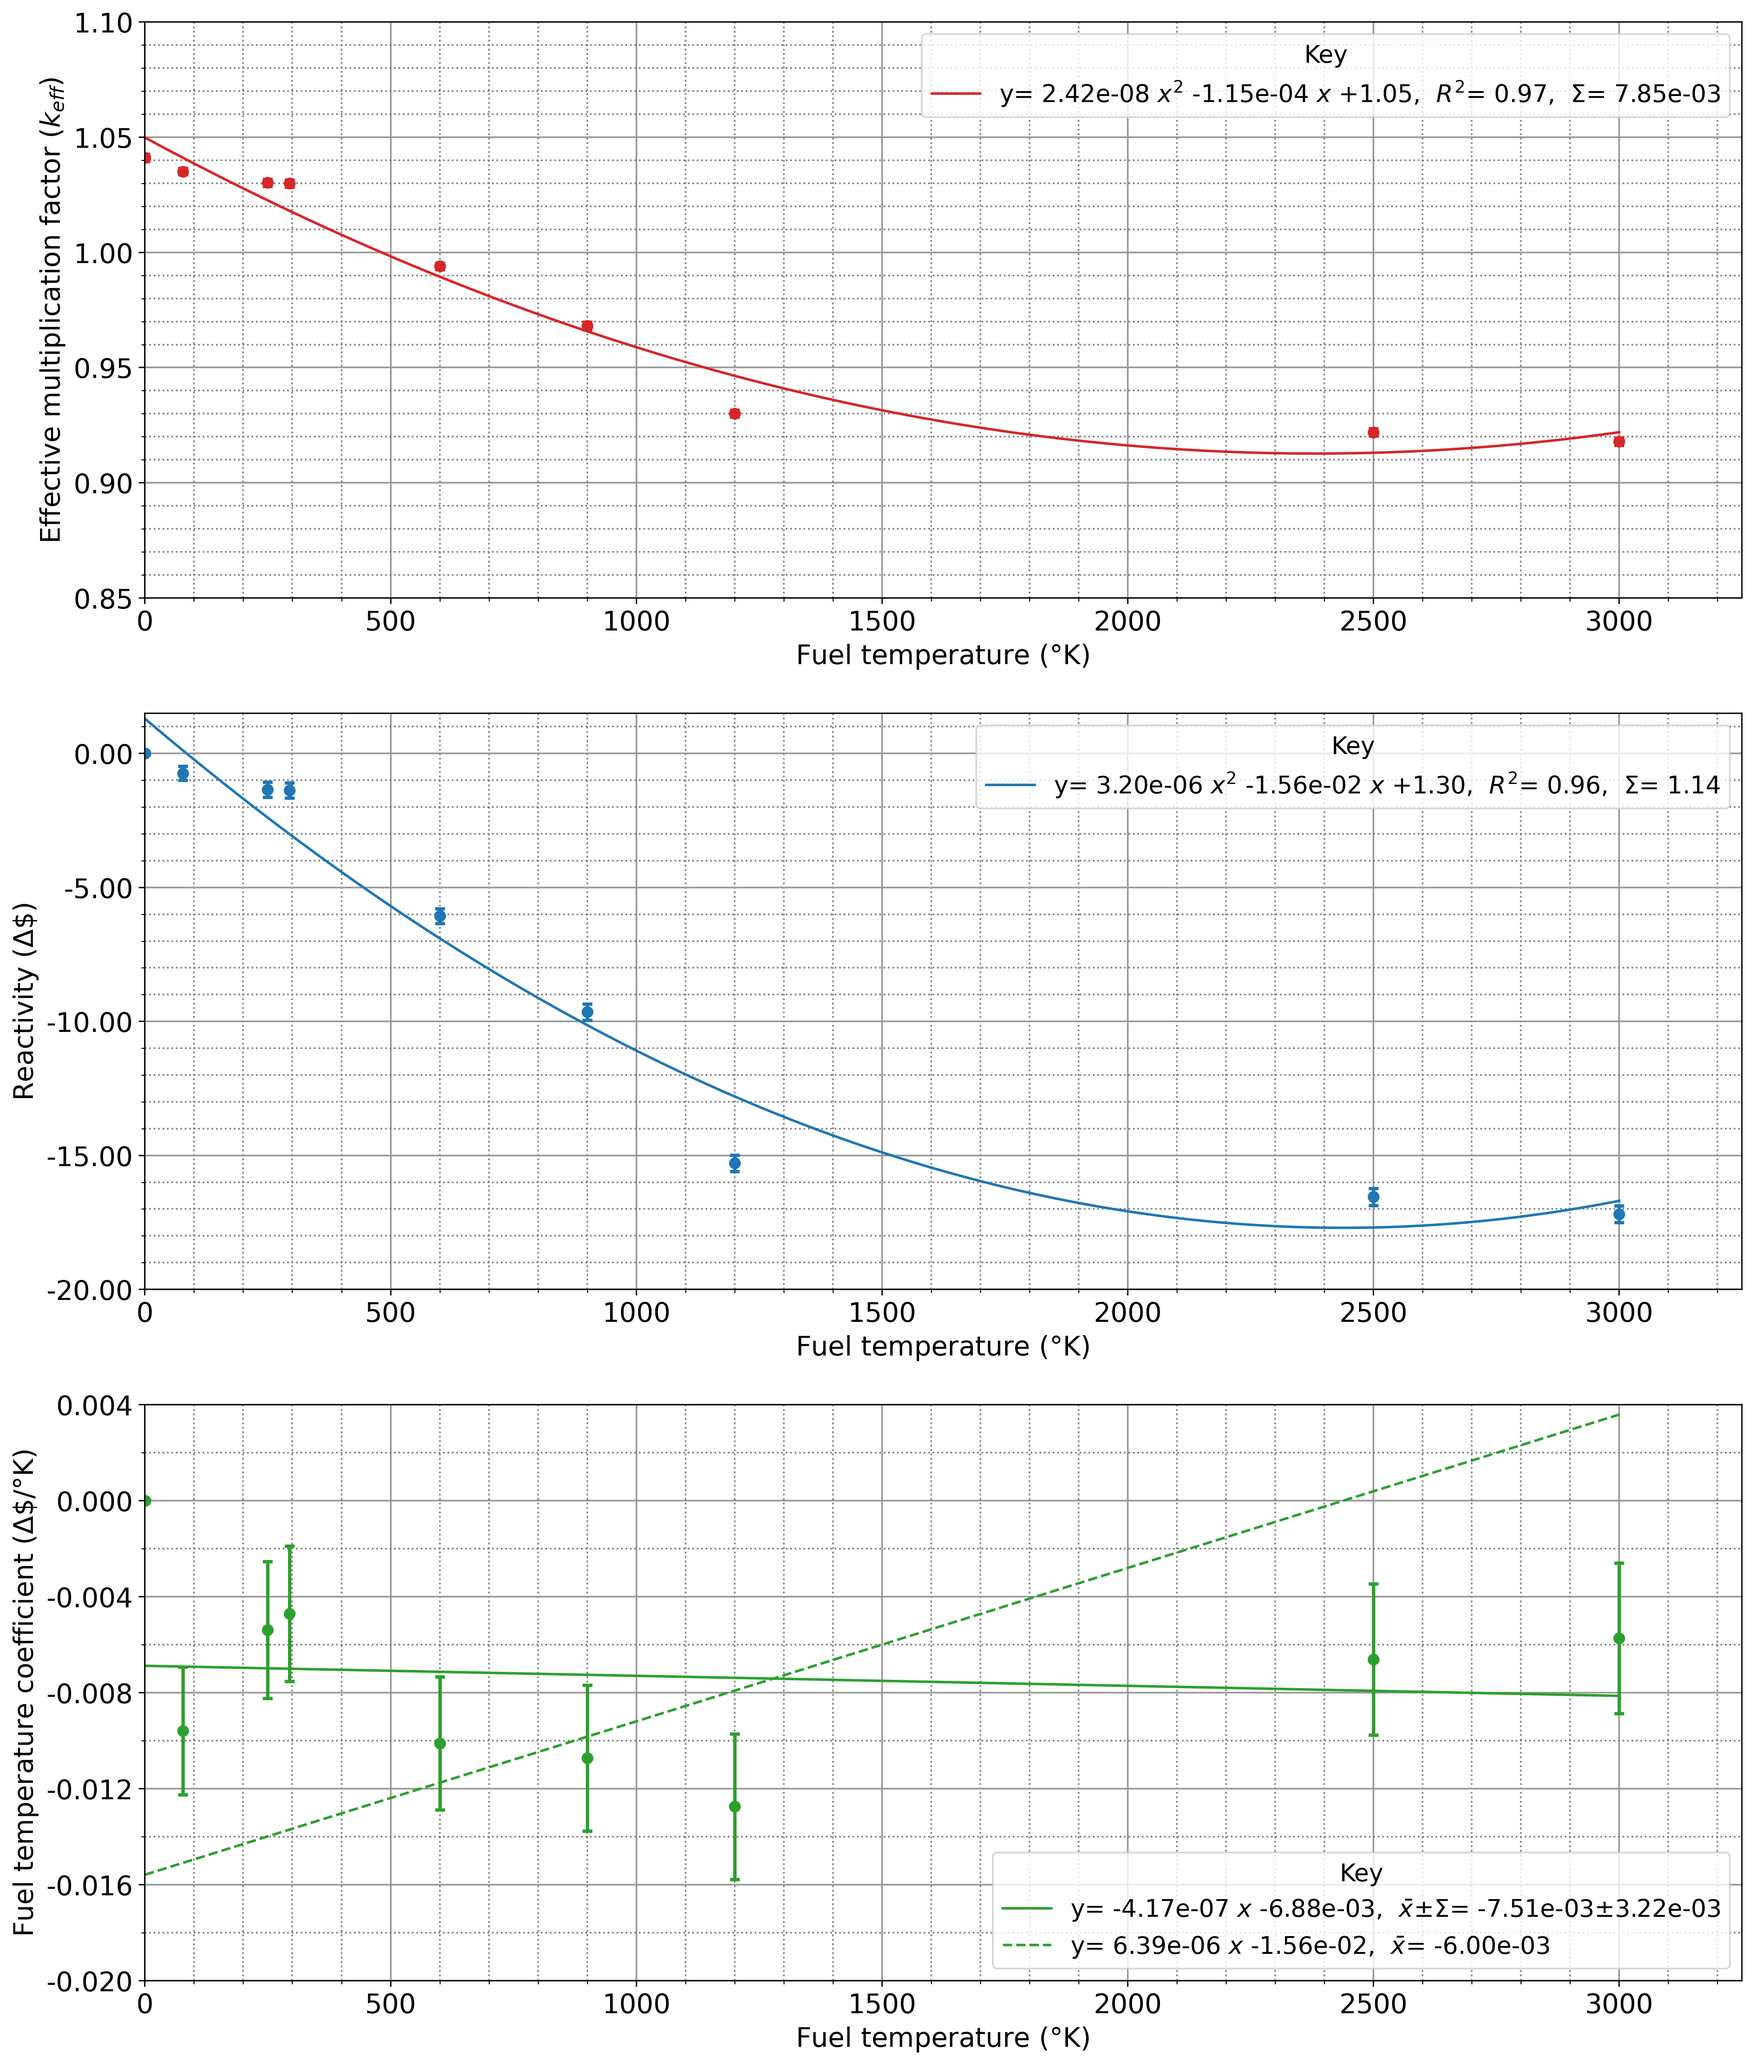
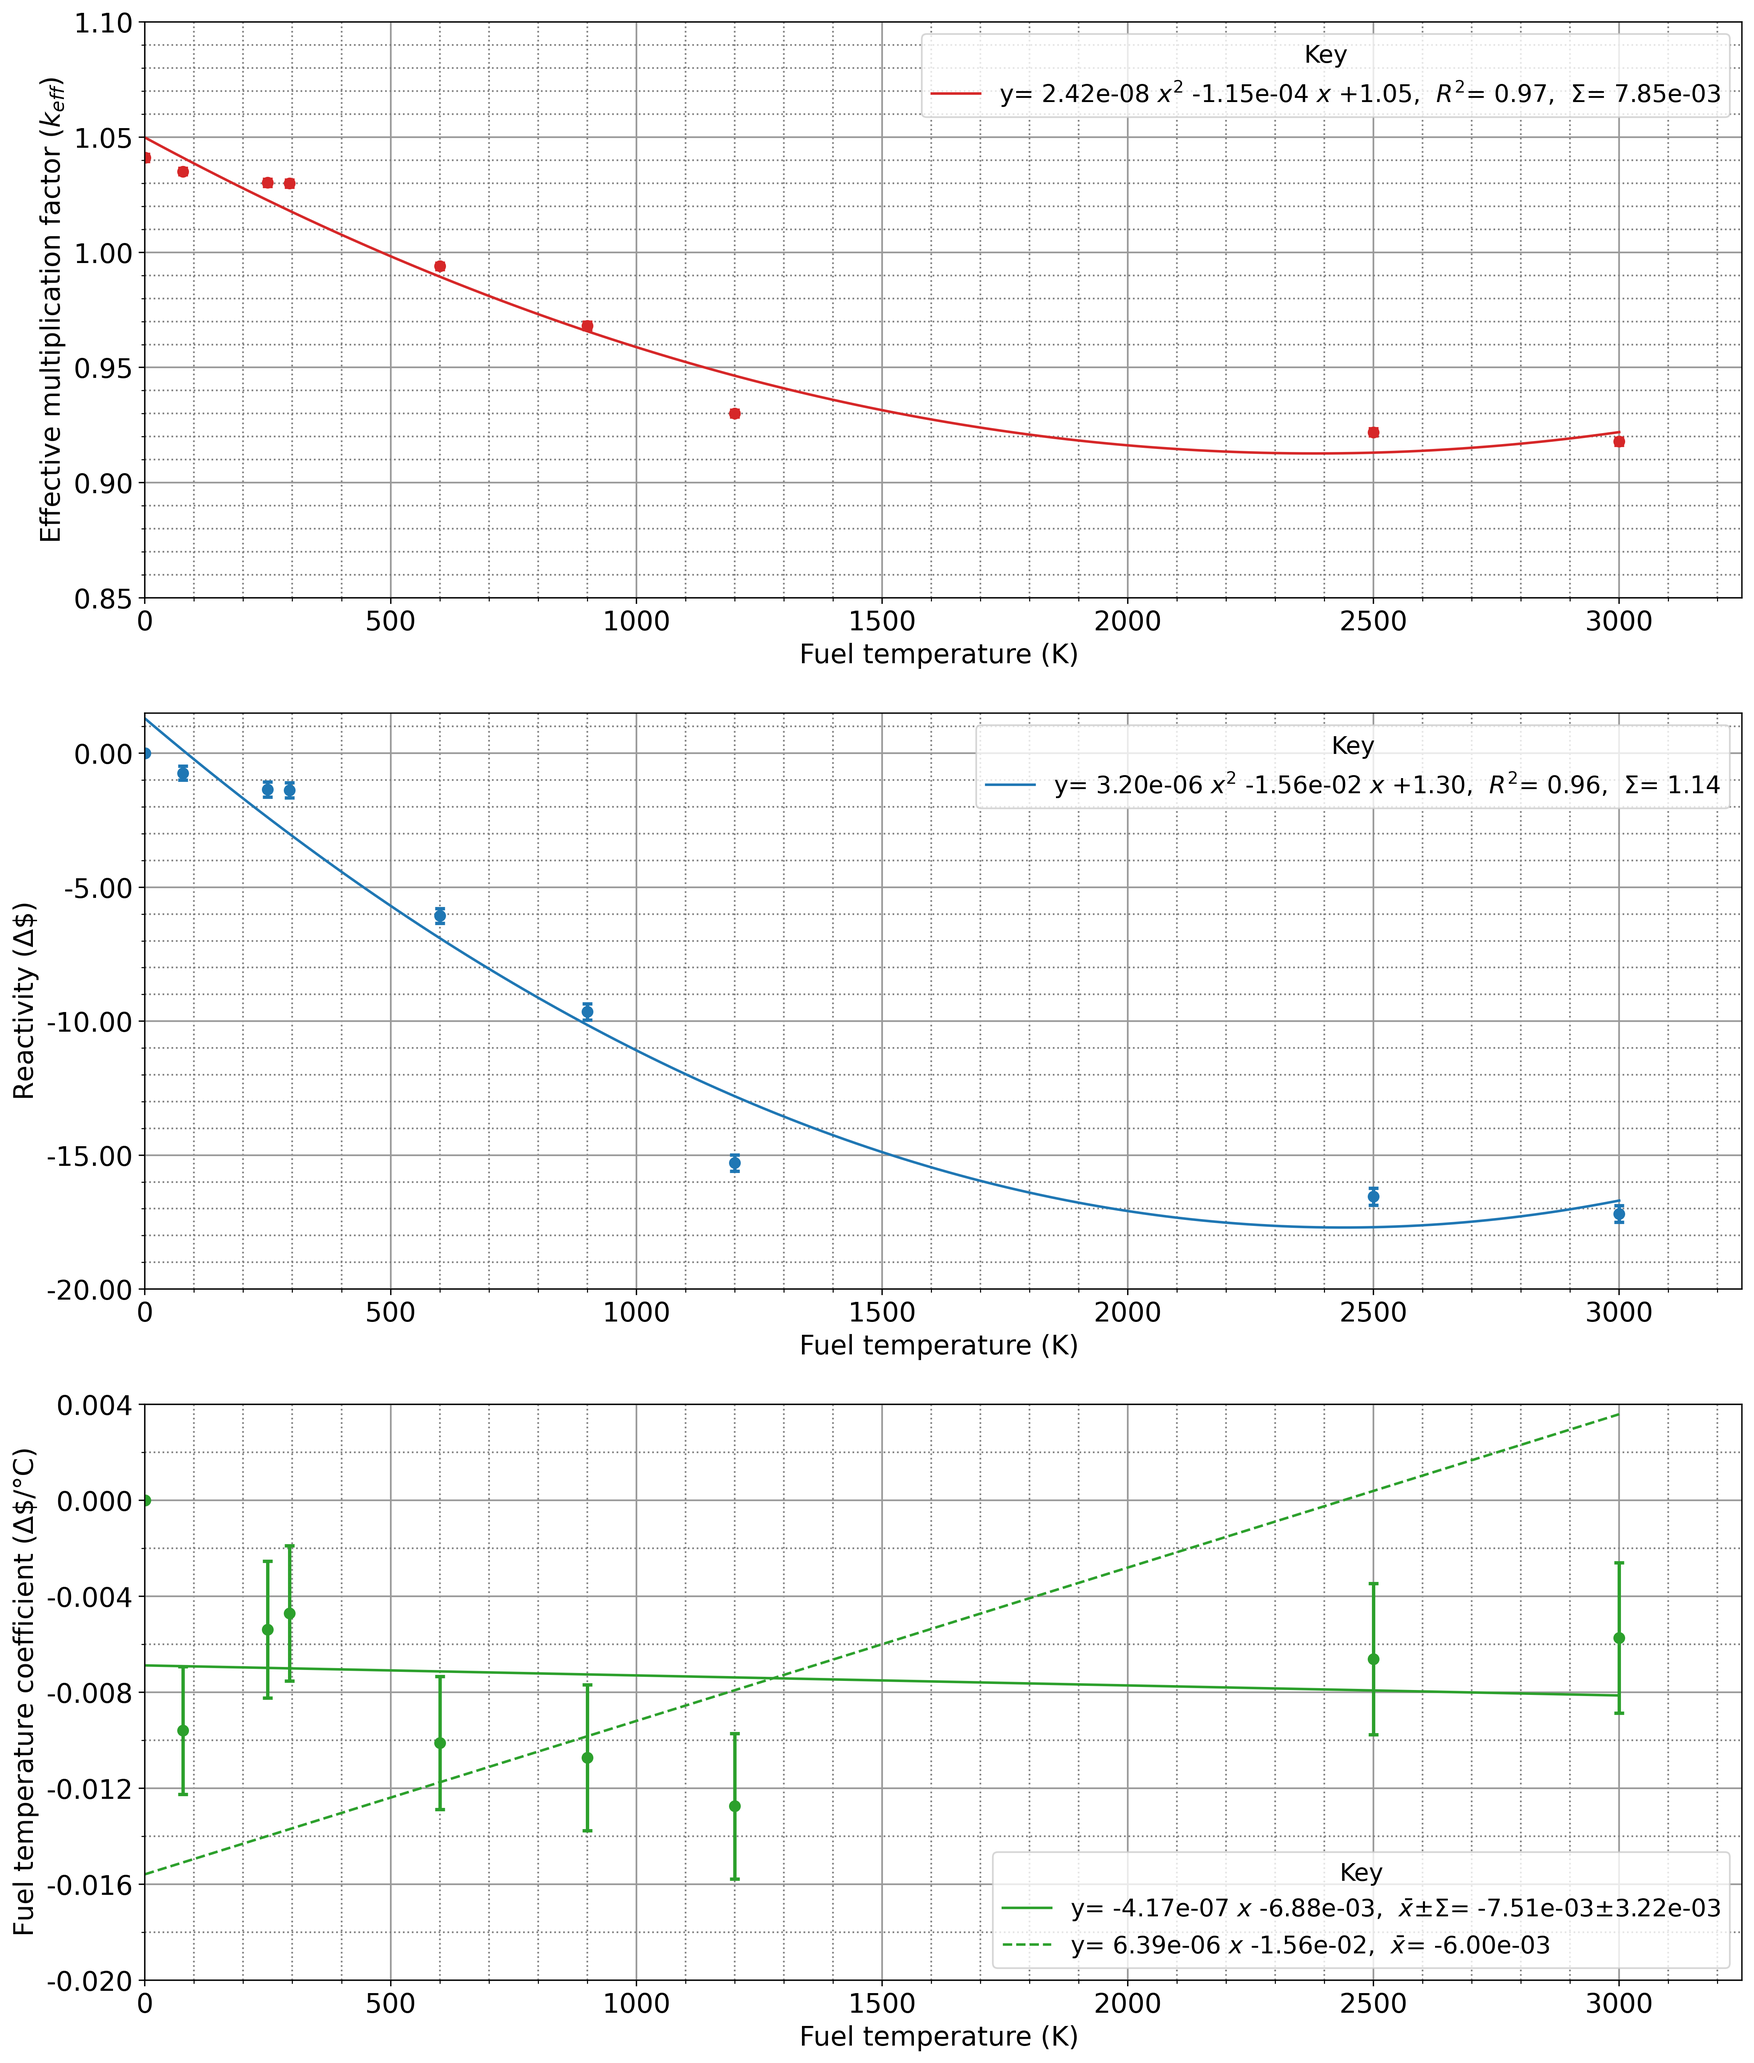
edited keff y axis

diff --git a/mcnp_funcs.py b/mcnp_funcs.py
@@ -4,7 +4,7 @@ AUXILLIARY MCNP FUNCTIONS
 Written by Patrick Park (RO, Physics '22)
 ppark@reed.edu
 First published: Dec. 30, 2020
-Last updated: Feb. 16, 2021
+Last updated: Feb. 17, 2021
 
 __________________
 Default MCNP units
@@ -52,6 +52,7 @@ MEV_PER_KELVIN = 8.617e-11
 REACT_ADD_RATE_LIMIT_DOLLARS = 0.16
 RODS = ["safe", "shim", "reg"]  # must be in lower case
 
+# From LA-UR-13-21822
 U235_TEMP_DICT = {294: '92235.80c', 600: '92235.81c', 900: '92235.82c', 1200: '92235.83c',
                   2500: '92235.84c', 0.1: '92235.85c', 250: '92235.86c', 77: '92235.67c', 3000: '92235.68c'}
 U238_TEMP_DICT = {294: '92238.80c', 600: '92238.81c', 900: '92238.82c', 1200: '92238.83c',
@@ -65,6 +66,12 @@ HZR_TEMP_DICT = {294: 'h/zr.20t', 400: 'h/zr.21t', 500: 'h/zr.22t', 600: 'h/zr.2
                  800: 'h/zr.25t', 1000: 'h/zr.26t', 1200: 'h/zr.27t'}
 ZRH_TEMP_DICT = {294: 'zr/h.30t', 400: 'zr/h.31t', 500: 'zr/h.32t', 600: 'zr/h.33t', 700: 'zr/h.34t',
                  800: 'zr/h.35t', 1000: 'zr/h.36t', 1200: 'zr/h.37t'}
+WATER_TEMP_DICT = {294: 'lwtr.20t', 350: 'lwtr.21t', 400: 'lwtr.22t', 450: 'lwtr.23t', 500: 'lwtr.24t',
+                   550: 'lwtr.25t', 600: 'lwtr.26t', 650: 'lwtr.27t', 800: 'lwtr.28t'}
+
+WATER_MAT_CARD = '102'
+FUEL_MAT_CARDS_LIST = list(FE_ID.values())
+MOD_MAT_CARDS_LIST = [WATER_MAT_CARD]
 
 
 def initialize_rane():
@@ -73,7 +80,7 @@ def initialize_rane():
 
 
 def find_base_file(filepath):
-    # filepath: string with current folder directory name, e.g. "C:/MCNP6/facilities/reed/rodcal-mcnp"
+    # filepath: string with current folder directory name, e.g. "C:/MCNP6/facilities/reed/rodcal_mcnp"
     base_input_name = None
     while base_input_name == None:
         potential_base_input_name = input('Input base MCNP file name, including extension: ')
@@ -154,8 +161,8 @@ def run_mcnp(filepath, input_deck_filepath, outputs_folder_name, tasks_to_use):
 def delete_files(target_folder_filepath, o=False, r=False, s=False):
     # Default args are False unless specified in command
     # NB: os.remove(f'*.r') does not work bc os.remove does not take wildcards (*)
-    # if o: 
-    #    for file in glob.glob(f'{target_folder_filepath}/*.o'): os.remove(file) 
+    # if o:
+    #    for file in glob.glob(f'{target_folder_filepath}/*.o'): os.remove(file)
     if r:
         for file in glob.glob(f'{target_folder_filepath}/*.r'): os.remove(file)
     if s:
@@ -213,20 +220,21 @@ def calc_params_coef(rho_csv_name, params_csv_name, module_name):
             params_df.loc[x_value, 'coef dollars'], params_df.loc[x_value, 'coef dollars unc'], \
             params_df.loc[x_value, 'coef rho avg'], params_df.loc[x_value, 'coef dollars avg'] = 0, 0, 0, 0, 0, 0
         else:
-            if module_name == 'void':
+            if module_name == 'coef_void':
                 params_df.loc[x_value, 'D x'] = -100 * round(x_value - original_x_value, 1)
-            elif module_name == 'pntc': params_df.loc[x_value, 'D x'] = round(x_value - original_x_value, 1)
+            elif module_name == 'pntc':
+                params_df.loc[x_value, 'D x'] = round(x_value - original_x_value, 1)
 
             params_df.loc[x_value, 'coef rho'] = params_df.loc[x_value, 'D rho'] / params_df.loc[x_value, 'D x']
             params_df.loc[x_value, 'coef dollars'] = params_df.loc[x_value, 'D dollars'] / params_df.loc[x_value, 'D x']
 
-            if module_name == 'void' or 'pntc':
+            if module_name == 'coef_void' or 'pntc':
                 params_df.loc[x_value, 'coef rho unc'] = params_df.loc[x_value, 'rho unc'] / 100
                 params_df.loc[x_value, 'coef dollars unc'] = params_df.loc[x_value, 'dollars unc'] / 100
 
     for x_value in params_df.index.values.tolist():
         x = []
-        if str(module_name).lower() == 'void':
+        if str(module_name).lower() == 'coef_void':
             x = [i for i in params_df.index.values.tolist() if x_value <= i <= original_x_value]
         elif str(module_name).lower() == 'pntc':
             x = [i for i in params_df.index.values.tolist() if original_x_value <= i <= x_value]
@@ -517,7 +525,7 @@ def change_cell_and_mat_temps(filepath, module_name, cell_temps_dict, base_input
     base_input_deck = open(base_input_name, 'r')
     # Encode new input name with rod heights: "input-a100-h20-r55.i" means safe 100, shim 20, reg 55, etc.
 
-    new_input_name = f'{filepath}/{inputs_folder_name}/{module_name}-fuel-{str(int(list(cell_temps_dict.values())[0])).zfill(4)}.i'
+    new_input_name = f'{filepath}/{inputs_folder_name}/{module_name}-temp-{str(int(list(cell_temps_dict.values())[0])).zfill(4)}.i'
     # careful not to mix up ' ' and " " here
 
     # If the inputs folder doesn't exist, create it

diff --git a/pntc.py b/pntc.py
@@ -64,7 +64,7 @@ FIGURE_NAME = f'{MODULE_NAME}_results.png'
 
 def main():
     initialize_rane()
-    """
+
     BASE_INPUT_NAME = 'pntc-a100-h100-r100.i'  # find_base_file(FILEPATH)
     check_kcode(FILEPATH, BASE_INPUT_NAME)
 
@@ -98,13 +98,13 @@ def main():
 
     for fuel_temp in FUEL_TEMPS:
         keff, keff_unc = extract_keff(
-            f"{FILEPATH}/{OUTPUTS_FOLDER_NAME}/o_{MODULE_NAME}-fuel-{str(int(fuel_temp)).zfill(4)}.o")
+            f"{FILEPATH}/{OUTPUTS_FOLDER_NAME}/o_{MODULE_NAME}-temp-{str(int(fuel_temp)).zfill(4)}.o")
         keff_df.loc[fuel_temp, 'keff'] = keff
         keff_df.loc[fuel_temp, 'keff unc'] = keff_unc
 
     print(f"\nDataframe of keff values and their uncertainties:\n{keff_df}\n")
     keff_df.to_csv(KEFF_CSV_NAME)
-    """
+
     convert_keff_to_rho_coef(float(0.1), KEFF_CSV_NAME, RHO_CSV_NAME)
     calc_params_coef(RHO_CSV_NAME, PARAMS_CSV_NAME, MODULE_NAME)
 
@@ -143,12 +143,12 @@ def plot_data_pntc(keff_csv_name, rho_csv_name, params_csv_name, figure_name, rh
     legend_fontsize = "x-large"
     # fontsize: int or {'xx-small', 'x-small', 'small', 'medium', 'large', 'x-large', 'xx-large'}
     my_dpi = 320
-    x_label = r"Fuel temperature ($\degree$K) "
+    x_label = r"Fuel temperature (K) "
     y_label_keff, y_label_rho, y_label_coef = r"Effective multiplication factor ($k_{eff}$)", \
                                               r"Reactivity ($\%\Delta k/k$)", \
-                                              r"Fuel temperature coefficient ((%$\Delta k/k$)/$\degree$K)"
+                                              r"Fuel temperature coefficient ((%$\Delta k/k$)/$\degree$C)"
     if rho_or_dollars == 'dollars':
-        y_label_rho, y_label_coef = r"Reactivity ($\Delta$\$)", r"Fuel temperature coefficient ($\Delta$\$/$\degree$K)"
+        y_label_rho, y_label_coef = r"Reactivity ($\Delta$\$)", r"Fuel temperature coefficient ($\Delta$\$/$\degree$C)"
 
     plot_color = ["tab:red", "tab:blue", "tab:green"]
 
@@ -158,13 +158,13 @@ def plot_data_pntc(keff_csv_name, rho_csv_name, params_csv_name, figure_name, rh
     ax_keff_y_min, ax_keff_y_max = 0.85, 1.1
     ax_keff_y_major_ticks_interval, ax_keff_y_minor_ticks_interval = 0.05, 0.01
 
-    ax_rho_y_min, ax_rho_y_max = -16, 1
+    ax_rho_y_min, ax_rho_y_max = -14, 2
     ax_rho_y_major_ticks_interval, ax_rho_y_minor_ticks_interval = 2, 1
     if rho_or_dollars == 'dollars':
         ax_rho_y_min, ax_rho_y_max = -20, 1.5
         ax_rho_y_major_ticks_interval, ax_rho_y_minor_ticks_interval = 5, 1
 
-    ax_pntc_y_min, ax_pntc_y_max = -0.025,0.005
+    ax_pntc_y_min, ax_pntc_y_max = -0.024,0.004
     ax_pntc_y_major_ticks_interval, ax_pntc_y_minor_ticks_interval = 0.01, 0.002
     if rho_or_dollars == 'dollars':
         ax_pntc_y_min, ax_pntc_y_max = -0.02,0.004

diff --git a/without changing xs libraries/mcnp_funcs.py b/without changing xs libraries/mcnp_funcs.py
@@ -59,7 +59,7 @@ def initialize_rane():
 
 
 def find_base_file(filepath):
-    # filepath: string with current folder directory name, e.g. "C:/MCNP6/facilities/reed/rodcal-mcnp"
+    # filepath: string with current folder directory name, e.g. "C:/MCNP6/facilities/reed/rodcal_mcnp"
     base_input_name = None
     while base_input_name == None:
         potential_base_input_name = input('Input base MCNP file name, including extension: ')
@@ -199,7 +199,7 @@ def calc_params_coef(rho_csv_name, params_csv_name, module_name):
             params_df.loc[x_value, 'coef dollars'], params_df.loc[x_value, 'coef dollars unc'], \
             params_df.loc[x_value, 'coef rho avg'], params_df.loc[x_value, 'coef dollars avg'] = 0, 0, 0, 0, 0, 0
         else:
-            if module_name == 'void': params_df.loc[x_value, 'D x'] = -100 * round(x_value - original_x_value, 1)
+            if module_name == 'coef_void': params_df.loc[x_value, 'D x'] = -100 * round(x_value - original_x_value, 1)
             if module_name == 'pntc': params_df.loc[x_value, 'D x'] = round(x_value - original_x_value, 1)
             params_df.loc[x_value, 'coef rho'] = params_df.loc[x_value, 'D rho'] / params_df.loc[x_value, 'D x']
             params_df.loc[x_value, 'coef rho unc'] = params_df.loc[x_value, 'rho unc'] / params_df.loc[x_value, 'D x']
@@ -209,7 +209,7 @@ def calc_params_coef(rho_csv_name, params_csv_name, module_name):
 
     for x_value in params_df.index.values.tolist():
         x = []
-        if str(module_name).lower() == 'void':
+        if str(module_name).lower() == 'coef_void':
             x = [i for i in params_df.index.values.tolist() if x_value <= i <= original_x_value]
         elif str(module_name).lower() == 'pntc':
             x = [i for i in params_df.index.values.tolist() if original_x_value <= i <= x_value]

diff --git a/without changing xs libraries/pntc.py b/without changing xs libraries/pntc.py
@@ -200,7 +200,7 @@ def plot_data_void(keff_csv_name, rho_csv_name, params_csv_name, figure_name, rh
                 label=r'y=-{:.1f}$x^2$+{:.0f}$x${:.0f},  $R^2$={:.2f},  $\sigma$={:.2f}'.format(
                     np.abs(eq_rho[0]), eq_rho[1], eq_rho[2], r2_rho, sd_rho))
 
-    # Plot data for void
+    # Plot data for coef_void
     y_void, y_void_unc = [], []
     for water_density in x:
         if rho_or_dollars == 'rho': y_void.append(params_df.loc[water_density,'coef rho']), y_void_unc.append(params_df.loc[water_density, 'coef rho unc'])
